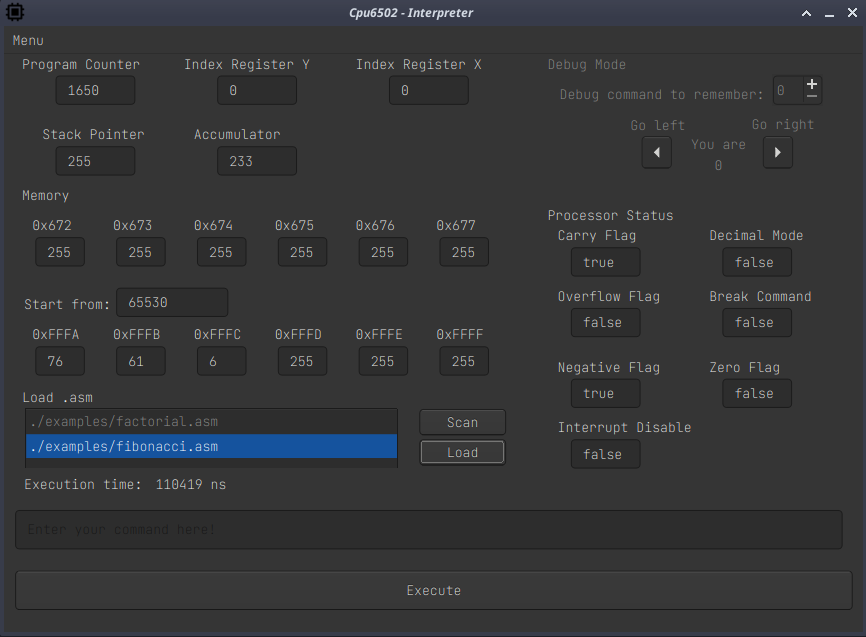
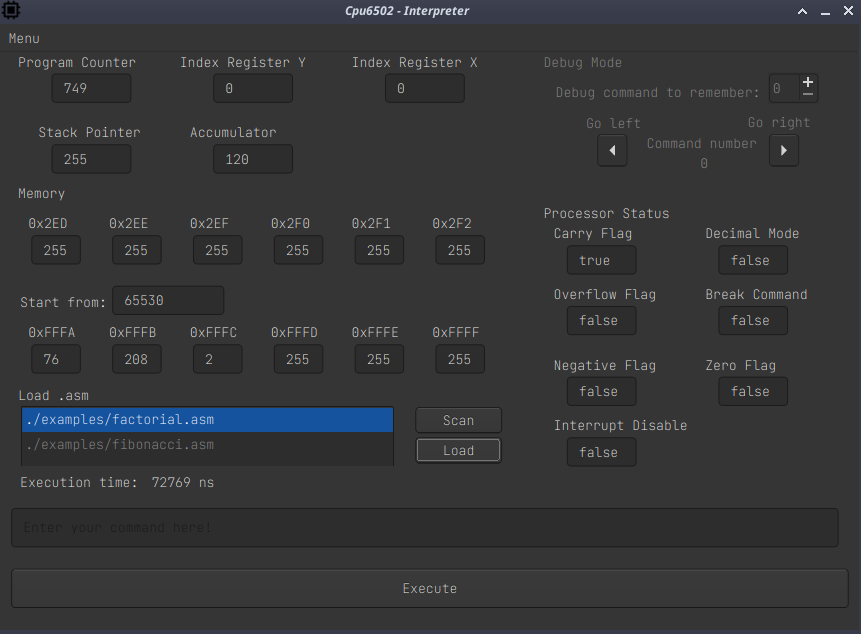
Change "You are" to "Command number"
* Update gui image

diff --git a/gui/include/qt_gui.h b/gui/include/qt_gui.h
@@ -1,13 +1,13 @@
 /********************************************************************************
-** Form generated from reading UI file 'conceptrFtApy.ui'
+** Form generated from reading UI file 'conceptFGbsFG.ui'
 **
-** Created by: Qt User Interface Compiler version 6.3.1
+** Created by: Qt User Interface Compiler version 6.3.2
 **
 ** WARNING! All changes made in this file will be lost when recompiling UI file!
 ********************************************************************************/
 
-#ifndef CONCEPTRFTAPY_H
-#define CONCEPTRFTAPY_H
+#ifndef CONCEPTFGBSFG_H
+#define CONCEPTFGBSFG_H
 
 #include <QtCore/QVariant>
 #include <QtGui/QAction>
@@ -172,21 +172,21 @@ public:
         DebugModeBox->setGeometry(QRect(530, 0, 311, 141));
         label_debug_where_i_am = new QLabel(DebugModeBox);
         label_debug_where_i_am->setObjectName(QString::fromUtf8("label_debug_where_i_am"));
-        label_debug_where_i_am->setGeometry(QRect(140, 100, 41, 20));
+        label_debug_where_i_am->setGeometry(QRect(130, 100, 41, 20));
         label_debug_where_i_am->setAlignment(Qt::AlignRight|Qt::AlignTrailing|Qt::AlignVCenter);
         CommandGoRight = new QToolButton(DebugModeBox);
         CommandGoRight->setObjectName(QString::fromUtf8("CommandGoRight"));
-        CommandGoRight->setGeometry(QRect(220, 80, 32, 34));
+        CommandGoRight->setGeometry(QRect(230, 80, 32, 34));
         CommandGoRight->setArrowType(Qt::RightArrow);
         label_2 = new QLabel(DebugModeBox);
         label_2->setObjectName(QString::fromUtf8("label_2"));
-        label_2->setGeometry(QRect(90, 60, 61, 20));
+        label_2->setGeometry(QRect(50, 60, 61, 20));
         spinCommandToRemember = new QSpinBox(DebugModeBox);
         spinCommandToRemember->setObjectName(QString::fromUtf8("spinCommandToRemember"));
         spinCommandToRemember->setGeometry(QRect(230, 20, 51, 31));
         CommandGoLeft = new QToolButton(DebugModeBox);
         CommandGoLeft->setObjectName(QString::fromUtf8("CommandGoLeft"));
-        CommandGoLeft->setGeometry(QRect(100, 80, 32, 34));
+        CommandGoLeft->setGeometry(QRect(60, 80, 32, 34));
         CommandGoLeft->setArrowType(Qt::LeftArrow);
         label = new QLabel(DebugModeBox);
         label->setObjectName(QString::fromUtf8("label"));
@@ -196,7 +196,7 @@ public:
         label_3->setGeometry(QRect(210, 60, 71, 18));
         label_4 = new QLabel(DebugModeBox);
         label_4->setObjectName(QString::fromUtf8("label_4"));
-        label_4->setGeometry(QRect(150, 80, 61, 18));
+        label_4->setGeometry(QRect(110, 80, 111, 20));
         PC_group = new QGroupBox(centralwidget);
         PC_group->setObjectName(QString::fromUtf8("PC_group"));
         PC_group->setGeometry(QRect(10, 0, 151, 61));
@@ -450,7 +450,7 @@ public:
         CommandGoLeft->setText(QCoreApplication::translate("cpu6502_mainwindow", "...", nullptr));
         label->setText(QCoreApplication::translate("cpu6502_mainwindow", "Debug command to remember:", nullptr));
         label_3->setText(QCoreApplication::translate("cpu6502_mainwindow", "Go right", nullptr));
-        label_4->setText(QCoreApplication::translate("cpu6502_mainwindow", "You are at", nullptr));
+        label_4->setText(QCoreApplication::translate("cpu6502_mainwindow", "Command number", nullptr));
         PC_group->setTitle(QCoreApplication::translate("cpu6502_mainwindow", "Program Counter", nullptr));
         SP_group->setTitle(QCoreApplication::translate("cpu6502_mainwindow", "Stack Pointer", nullptr));
         ACU_group->setTitle(QCoreApplication::translate("cpu6502_mainwindow", "Accumulator", nullptr));
@@ -500,4 +500,4 @@ namespace Ui {
 
 QT_END_NAMESPACE
 
-#endif // CONCEPTRFTAPY_H
+#endif // CONCEPTFGBSFG_H
